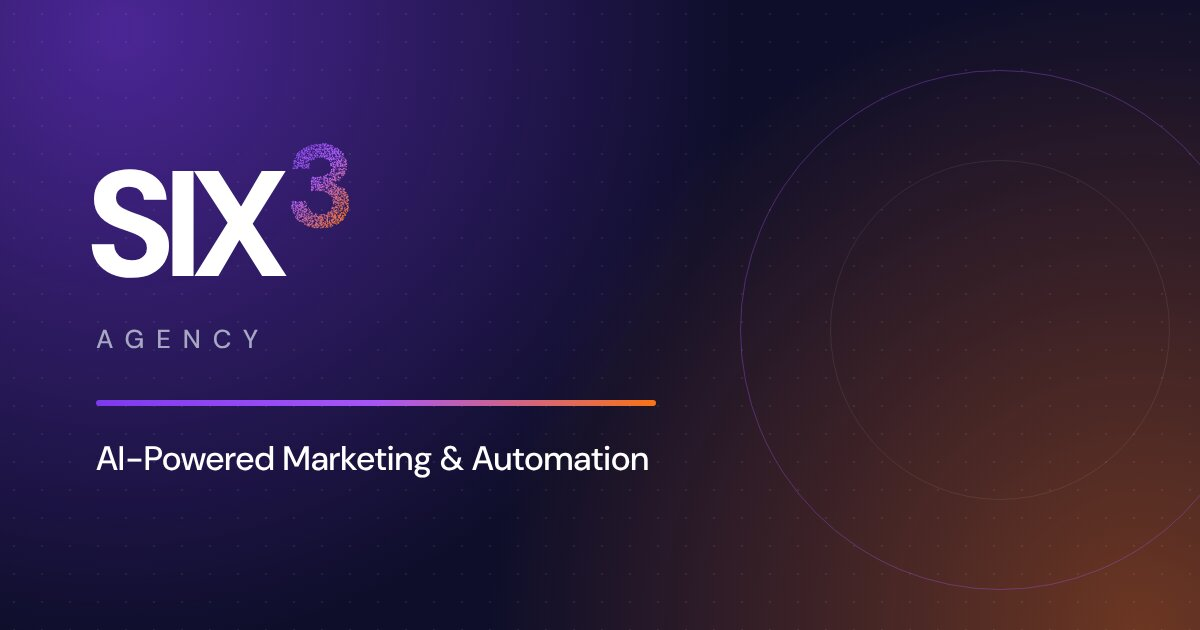
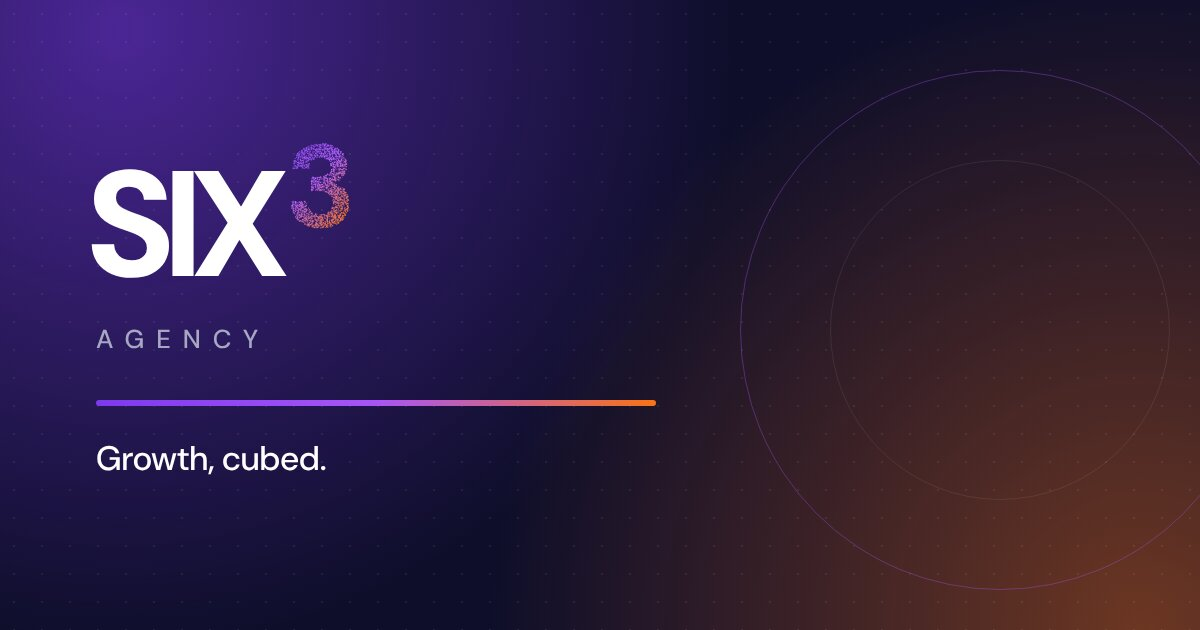
Plain service names, Brighton location, Growth cubed share image
- Dropped the Get Found / Get Chosen / Get It Done prefixes: services are
  Search & Paid Media, AI Content Studio, AI Agents & Automation, Private AI
- SIX³ is now Brighton-based: hero, about, meta tags, structured data,
  positioning doc and the hero clock label
- Link-preview image tagline is now Growth, cubed.

Claude-Session: https://claude.ai/code/session_01PYS1rasdfGw81tkoDZqZRk

Changed region(s): [[0.0617, 0.6937, 0.555, 0.754]]

diff --git a/index.html b/index.html
@@ -13,12 +13,12 @@
     <link rel="preconnect" href="https://fonts.googleapis.com">
     <link rel="preconnect" href="https://fonts.gstatic.com" crossorigin>
     <link href="https://fonts.googleapis.com/css2?family=DM+Sans:ital,opsz,wght@0,9..40,100..1000;1,9..40,100..1000&display=swap" rel="stylesheet">
-        <title>SIX³ Agency | AI Marketing &amp; Automation Agency, London</title>
-    <meta name="description" content="London AI marketing and automation agency. Search and paid media, AI video content and AI agents that answer every enquiry, as one growth system." />
+        <title>SIX³ Agency | AI Marketing &amp; Automation Agency, Brighton</title>
+    <meta name="description" content="Brighton AI marketing and automation agency. Search and paid media, AI video content and AI agents that answer every enquiry, as one growth system." />
     <meta name="author" content="SIX³ Agency" />
 
-    <meta property="og:title" content="SIX³ Agency | AI Marketing &amp; Automation Agency, London" />
-    <meta property="og:description" content="London AI marketing and automation agency. Search and paid media, AI video content and AI agents that answer every enquiry, as one growth system." />
+    <meta property="og:title" content="SIX³ Agency | AI Marketing &amp; Automation Agency, Brighton" />
+    <meta property="og:description" content="Brighton AI marketing and automation agency. Search and paid media, AI video content and AI agents that answer every enquiry, as one growth system." />
     <meta property="og:type" content="website" />
     <meta property="og:url" content="https://six3.agency" />
     <meta property="og:image" content="https://six3.agency/og-image.jpg" />
@@ -26,8 +26,8 @@
     <meta property="og:image:height" content="630" />
 
     <meta name="twitter:card" content="summary_large_image" />
-    <meta name="twitter:title" content="SIX³ Agency | AI Marketing &amp; Automation Agency, London" />
-    <meta name="twitter:description" content="London AI marketing and automation agency. Search and paid media, AI video content and AI agents that answer every enquiry, as one growth system." />
+    <meta name="twitter:title" content="SIX³ Agency | AI Marketing &amp; Automation Agency, Brighton" />
+    <meta name="twitter:description" content="Brighton AI marketing and automation agency. Search and paid media, AI video content and AI agents that answer every enquiry, as one growth system." />
     <meta name="twitter:site" content="@six3agency" />
     <meta name="twitter:image" content="https://six3.agency/og-image.jpg" />
 

diff --git a/src/pages/Services.tsx b/src/pages/Services.tsx
@@ -16,7 +16,7 @@ gsap.registerPlugin(ScrollTrigger);
 const services = [
   {
     number: "01",
-    title: "Get Found: Search & Paid Media",
+    title: "Search & Paid Media",
     subtitle: "Campaigns that bring in the right enquiries, not just more clicks",
     description: "We plan Google Ads, Meta, LinkedIn and TikTok as one budget, build landing pages that turn visits into enquiries, and track every lead back to the ad that brought it in. You get monthly optimisation and a plain-English report on what your spend is buying.",
     format: "Monthly",
@@ -31,7 +31,7 @@ const services = [
   },
   {
     number: "02",
-    title: "Get Chosen: AI Content Studio",
+    title: "AI Content Studio",
     subtitle: "Video, voice and ad content that makes people pick you",
     description: "Most businesses know they need more video but never have the time to film it. We produce ads, explainers and social content with AI presenters, voiceovers and translations, on a monthly plan, in your brand's look and voice. Creative is tested in your ads, so the winners get the budget.",
     format: "Monthly content packs",
@@ -46,7 +46,7 @@ const services = [
   },
   {
     number: "03",
-    title: "Get It Done: AI Agents & Automation",
+    title: "AI Agents & Automation",
     subtitle: "AI that answers, qualifies and books every enquiry, day and night",
     description: "Missed calls and slow replies quietly lose you customers. We build AI receptionists for phone, chat and email that answer straight away, ask the right questions, book qualified people into your calendar and update your CRM. Then we look after them on a monthly care plan.",
     format: "Build, then monthly care plan",
@@ -61,7 +61,7 @@ const services = [
   },
   {
     number: "04",
-    title: "Private AI: Custom Models",
+    title: "Private AI",
     subtitle: "AI trained on your own knowledge, deployed privately",
     description: "For firms with specialist knowledge or strict data rules, off-the-shelf AI isn't always enough. We fine-tune open and commercial language models on your documents and data, test them properly against your real tasks, and deploy them where your data stays under your control.",
     format: "By enquiry",

diff --git a/src/pages/services/AIDevAutomation.tsx b/src/pages/services/AIDevAutomation.tsx
@@ -67,11 +67,11 @@ const AIDevAutomation = () => {
         <div className="max-w-7xl mx-auto">
           <div className="hero-content mb-12 grid lg:grid-cols-[minmax(0,1fr)_400px] gap-x-12 gap-y-8 items-center">
             <h1 className="text-5xl md:text-6xl lg:text-7xl font-light mb-8 text-gradient w-fit pb-1 lg:col-start-1">
-              Get It Done: AI Agents & Automation
+              AI Agents & Automation
             </h1>
             <div className="h-1 w-40 bg-brand-gradient rounded-full lg:col-start-1 -mt-4" />
             <div className="media-frame aspect-[4/3] w-full max-w-md lg:max-w-none lg:col-start-2 lg:row-start-1 lg:row-span-3">
-              <ServiceVisual kind="agents" label="Get It Done: AI Agents & Automation" className="w-full h-full" />
+              <ServiceVisual kind="agents" label="AI Agents & Automation" className="w-full h-full" />
             </div>
             <p className="text-xl md:text-2xl text-muted-foreground max-w-2xl lg:col-start-1">
               AI that answers, qualifies and books every enquiry, day and night. AI receptionists for phone, chat

diff --git a/src/pages/services/SearchMarketingPPC.tsx b/src/pages/services/SearchMarketingPPC.tsx
@@ -67,11 +67,11 @@ const SearchMarketingPPC = () => {
         <div className="max-w-7xl mx-auto">
           <div className="hero-content mb-12 grid lg:grid-cols-[minmax(0,1fr)_400px] gap-x-12 gap-y-8 items-center">
             <h1 className="text-5xl md:text-6xl lg:text-7xl font-light mb-8 text-gradient w-fit pb-1 lg:col-start-1">
-              Get Found: Search & Paid Media
+              Search & Paid Media
             </h1>
             <div className="h-1 w-40 bg-brand-gradient rounded-full lg:col-start-1 -mt-4" />
             <div className="media-frame aspect-[4/3] w-full max-w-md lg:max-w-none lg:col-start-2 lg:row-start-1 lg:row-span-3">
-              <ServiceVisual kind="search" label="Get Found: Search & Paid Media" className="w-full h-full" />
+              <ServiceVisual kind="search" label="Search & Paid Media" className="w-full h-full" />
             </div>
             <p className="text-xl md:text-2xl text-muted-foreground max-w-2xl lg:col-start-1">
               Campaigns that bring in the right enquiries, not just more clicks. Google Ads, Meta, LinkedIn and

diff --git a/src/pages/services/ContentCreation.tsx b/src/pages/services/ContentCreation.tsx
@@ -68,11 +68,11 @@ const ContentCreation = () => {
         <div className="max-w-7xl mx-auto">
           <div className="hero-content mb-12 grid lg:grid-cols-[minmax(0,1fr)_400px] gap-x-12 gap-y-8 items-center">
             <h1 className="text-5xl md:text-6xl lg:text-7xl font-light mb-8 text-gradient w-fit pb-1 lg:col-start-1">
-              Get Chosen: AI Content Studio
+              AI Content Studio
             </h1>
             <div className="h-1 w-40 bg-brand-gradient rounded-full lg:col-start-1 -mt-4" />
             <div className="media-frame aspect-[4/3] w-full max-w-md lg:max-w-none lg:col-start-2 lg:row-start-1 lg:row-span-3">
-              <ServiceVisual kind="video" label="Get Chosen: AI Content Studio" className="w-full h-full" />
+              <ServiceVisual kind="video" label="AI Content Studio" className="w-full h-full" />
             </div>
             <p className="text-xl md:text-2xl text-muted-foreground max-w-2xl lg:col-start-1">
               Video, voice and ad content that makes people pick you. Ads, explainers and social clips with AI

diff --git a/src/pages/services/MLFineTuning.tsx b/src/pages/services/MLFineTuning.tsx
@@ -66,11 +66,11 @@ const MLFineTuning = () => {
         <div className="max-w-7xl mx-auto">
           <div className="hero-content mb-12 grid lg:grid-cols-[minmax(0,1fr)_400px] gap-x-12 gap-y-8 items-center">
             <h1 className="text-5xl md:text-6xl lg:text-7xl font-light mb-8 text-gradient w-fit pb-1 lg:col-start-1">
-              Private AI: Custom Models
+              Private AI
             </h1>
             <div className="h-1 w-40 bg-brand-gradient rounded-full lg:col-start-1 -mt-4" />
             <div className="media-frame aspect-[4/3] w-full max-w-md lg:max-w-none lg:col-start-2 lg:row-start-1 lg:row-span-3">
-              <ServiceVisual kind="ml" label="Private AI: Custom Models" className="w-full h-full" />
+              <ServiceVisual kind="ml" label="Private AI" className="w-full h-full" />
             </div>
             <p className="text-xl md:text-2xl text-muted-foreground max-w-2xl lg:col-start-1">
               AI trained on your own knowledge, deployed privately. Language models fine-tuned on your documents and

diff --git a/src/components/Hero.tsx b/src/components/Hero.tsx
@@ -167,7 +167,7 @@ export const Hero = () => {
         <div className="max-w-7xl w-full">
           <div className="mb-12">
             <h1 className="hero-subtitle mb-6 text-sm md:text-base font-medium tracking-[0.25em] uppercase text-gradient w-fit">
-              AI marketing &amp; automation agency · London
+              AI marketing &amp; automation agency · Brighton
             </h1>
             <div
               ref={(el) => (titleRefs.current[0] = el)}
@@ -204,7 +204,7 @@ export const Hero = () => {
       <div className="hero-footer relative flex items-center justify-between px-6 pb-8">
         <div className="flex items-center gap-2">
           <div className="w-2 h-2 rounded-full bg-brand-gradient animate-pulse" />
-          <span className="text-sm text-muted-foreground">London, {time}</span>
+          <span className="text-sm text-muted-foreground">Brighton, {time}</span>
         </div>
         
         <div className="scroll-indicator flex items-center gap-2 text-sm text-muted-foreground">

diff --git a/src/components/ServicePreviews.tsx b/src/components/ServicePreviews.tsx
@@ -11,7 +11,7 @@ gsap.registerPlugin(ScrollTrigger);
 const servicePreviews = [
   {
     number: "01",
-    title: "Get Found: Search & Paid Media",
+    title: "Search & Paid Media",
     shortDescription: "Campaigns that bring in the right enquiries, not just more clicks",
     features: [
       "Google Ads, Meta, LinkedIn and TikTok, planned as one budget",
@@ -24,7 +24,7 @@ const servicePreviews = [
   },
   {
     number: "02",
-    title: "Get Chosen: AI Content Studio",
+    title: "AI Content Studio",
     shortDescription: "Video, voice and ad content that makes people pick you",
     features: [
       "AI video ads and social content on a monthly plan",
@@ -37,7 +37,7 @@ const servicePreviews = [
   },
   {
     number: "03",
-    title: "Get It Done: AI Agents & Automation",
+    title: "AI Agents & Automation",
     shortDescription: "AI that answers, qualifies and books every enquiry, day and night",
     features: [
       "AI receptionists for phone, chat and email",

diff --git a/src/components/PageSEO.tsx b/src/components/PageSEO.tsx
@@ -54,9 +54,9 @@ export const organizationJsonLd = {
   image: DEFAULT_IMAGE,
   email: "hello@six3.agency",
   description:
-    "London AI marketing and automation agency: search and paid media, AI video content and AI agents that answer every enquiry, as one growth system.",
+    "Brighton AI marketing and automation agency: search and paid media, AI video content and AI agents that answer every enquiry, as one growth system.",
   foundingDate: "2018",
-  address: { "@type": "PostalAddress", addressLocality: "London", addressCountry: "GB" },
+  address: { "@type": "PostalAddress", addressLocality: "Brighton", addressCountry: "GB" },
   areaServed: { "@type": "Country", name: "United Kingdom" },
   sameAs: ["https://linkedin.com/company/six3-agency"],
   knowsAbout: ["AI marketing", "Paid media", "Google Ads", "AI video production", "AI receptionists", "Marketing automation"],

diff --git a/src/components/About.tsx b/src/components/About.tsx
@@ -90,7 +90,7 @@ export const About = () => {
             Most businesses buy ads, content and automation from three suppliers. We make them one system.
           </h2>
           <p className="about-description text-lg text-muted-foreground max-w-2xl mb-12">
-            SIX³ is a London agency for service businesses that run on enquiries. We bring in the right leads, give
+            SIX³ is a Brighton agency for service businesses that run on enquiries. We bring in the right leads, give
             people a reason to choose you, and make sure every enquiry gets an answer, so each part makes the others
             work harder. That's the ³: growth that compounds instead of adding up.
           </p>

diff --git a/src/pages/Index.tsx b/src/pages/Index.tsx
@@ -13,8 +13,8 @@ const Index = () => {
   return (
     <div className="min-h-screen bg-background text-foreground">
       <PageSEO
-        title="SIX³ Agency | AI Marketing & Automation Agency, London"
-        description="London AI marketing and automation agency. Search and paid media, AI video content and AI agents that answer every enquiry, as one growth system."
+        title="SIX³ Agency | AI Marketing & Automation Agency, Brighton"
+        description="Brighton AI marketing and automation agency. Search and paid media, AI video content and AI agents that answer every enquiry, as one growth system."
         canonical="https://six3.agency/"
         jsonLd={organizationJsonLd}
       />

diff --git a/src/pages/About.tsx b/src/pages/About.tsx
@@ -7,8 +7,8 @@ const About = () => {
   return (
     <div className="min-h-screen bg-background text-foreground">
       <PageSEO
-        title="About Us: London AI Marketing Agency | SIX³ Agency"
-        description="SIX³ is a London AI marketing and automation agency. One team for search, AI content and AI agents, helping UK service businesses grow since 2018."
+        title="About Us: Brighton AI Marketing Agency | SIX³ Agency"
+        description="SIX³ is a Brighton AI marketing and automation agency. One team for search, AI content and AI agents, helping UK service businesses grow since 2018."
         canonical="https://six3.agency/about"
       />
       <Header />
